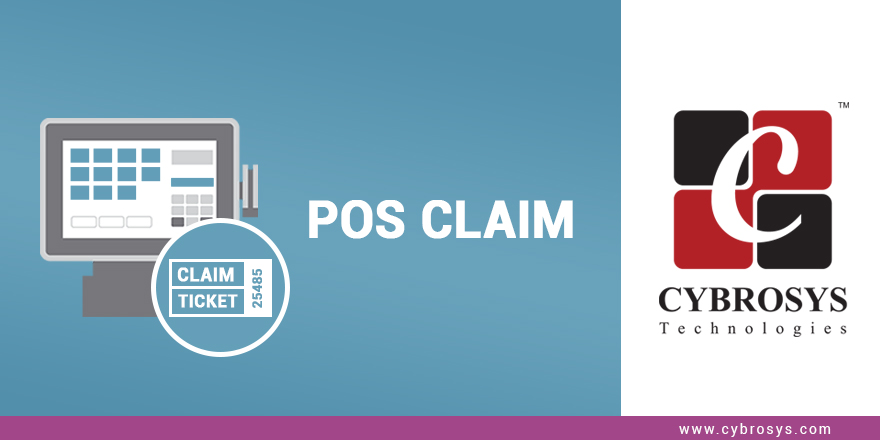
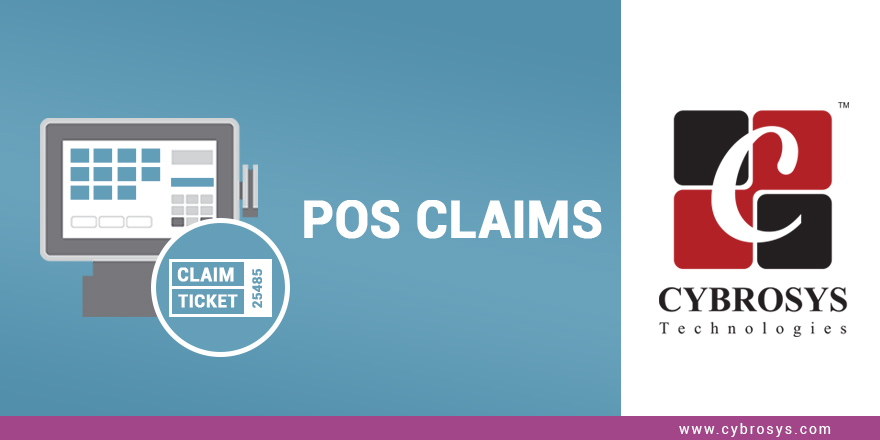
[CHNG] Index xhanged

Changed region(s): [[0.3375, 0.4432, 0.7057, 0.5614]]

diff --git a/pos_claims/static/description/index.html b/pos_claims/static/description/index.html
@@ -2,111 +2,148 @@
     <div class="oe_row oe_spaced">
         <h2 class="oe_slogan">POS Claims</h2>
         <h3 class="oe_slogan">Manage Customer Claims</h3>
-        <h4 class="oe_slogan">Cybrosys Technologies , www.cybrosys.com</h4>
+        <h4 class="oe_slogan">Author : Cybrosys Techno Solutions , www.cybrosys.com</h4>
         <div>
             <h4><p>Features:</p></h4>
             <ul>
-                <div class="col-md-6">
-                &#9728;Easily create claims from POS interface.<br>
-                &#9728; Automatic stage changes for assignment of claims.<br>
-                &#9728; Email Notification.<br>
-                &#9728; Calender view.<br>
-
-        </div>
+                <li style="list-style:none !important;"><span style="color:green;"> &#9745;</span>&nbsp;&nbsp; Easily create claims from POS interface.</li>
+                <li style="list-style:none !important;"><span style="color:green;"> &#9745;</span>&nbsp;&nbsp; Automatic stage changes for assignment of claims.</li>
+                <li style="list-style:none !important;"><span style="color:green;"> &#9745;</span>&nbsp;&nbsp; Email Notification.</li>
+                <li style="list-style:none !important;"><span style="color:green;"> &#9745;</span>&nbsp;&nbsp; Calender view.</li>
             </ul>
         </div>
-    </div>
-</section>
-
-<section class="oe_container">
-    <div class="oe_row oe_spaced">
-        <div class="oe_span12">
-            <div class="oe_demo oe_picture oe_screenshot">
-            	<img src="pos_claims.png">
-            </div>
-        </div>
-        <div class="oe_span12">
-            <p class='oe_mt32'><center>
-                This application allows you to manage your customers claims.
-            </center></p>
-        </div>
-    </div>
+     </div>
 </section>
 
 <section class="oe_container oe_dark">
+     <div class="oe_row oe_spaced">
+        <h3 class="oe_slogan">Easily create claims from POS interface</h3>
+        <div class="oe_row oe_spaced">
+            <div class="oe_span12">
+                <div class="oe_row_img oe_centered">
+                    <img style="border:10px solid white;" class="oe_picture oe_screenshot" src="pos_claims.png">
+                </div>
+            </div>
+            <div class="oe_span12">
+                <p class="oe_mt32">
+                    This application allows you to manage your customers claims.
+                </p>
+            </div>
+
+        </div>
+     </div>
+</section>
+
+<section class="oe_container">
     <div class="oe_row oe_spaced">
         <h3 class="oe_slogan">Create Claims</h3>
-        <div class="oe_span6">
-            <div class="oe_demo oe_picture oe_screenshot">
-            	<img src="interface_pos.png">
+        <div class="oe_row oe_spaced">
+            <div class="oe_span12">
+                <div class="oe_row_img oe_centered">
+                    <img style="border:10px solid white;" class="oe_picture oe_screenshot" src="interface_pos.png">
+                </div>
             </div>
-        </div>
-        <div class="oe_span6">
-        <p class='oe_mt32'>
-            Create claims easily from pos interface.Ticket is generated automatically and
-            it is send to corresponding user on creation of claims.
-        </p>
+            <div class="oe_span12">
+                <p class="oe_mt32">
+                    <p>Create claims easily from pos interface.Ticket is generated automatically and
+            it is send to corresponding user on creation of claims. </p>
+                </p>
+            </div>
         </div>
     </div>
 </section>
 
 <section class="oe_container oe_dark">
-    <div class="oe_row oe_space">
-        <h3 class="oe_slogan"> Automatic Stage Change</h3>
-        <div class="oe_span6">
-        <p class='oe_mt32'>
+    <div class="oe_row oe_spaced">
+        <h3 class="oe_slogan">Automatic Stage Change</h3>
+        <div class="oe_row oe_spaced">
+            <div class="oe_span12">
+                <div class="oe_row_img oe_centered">
+                    <img style="border:10px solid white;" class="oe_picture oe_screenshot" src="claim_state_change.png">
+                </div>
+            </div>
+        </div>
+        <div class="oe_row oe_spaced">
+            <p>
                 On assigning claim to responsible user,state of claim is changed.
-        </p>
-        </div>
-        <div class="oe_span6">
-            <div class="oe_demo oe_picture oe_screenshot">
-                <img src="claim_state_change.png">
-            </div>
+            </p>
         </div>
     </div>
 </section>
 
-<section class="oe_container oe_dark">
+<section class="oe_container ">
     <div class="oe_row oe_spaced">
         <h3 class="oe_slogan">Email Notification</h3>
-        <div class="oe_span6">
-            <div class="oe_demo oe_picture oe_screenshot">
-            	<img src="email.png">
+        <div class="oe_row oe_spaced">
+            <div class="oe_span12">
+                <div class="oe_row_img oe_centered">
+                    <img style="border:10px solid white;" class="oe_picture oe_screenshot" src="email.png">
+                </div>
+            </div>
+            <div class="oe_span12">
+                <p class="oe_mt32">
+                    An email is sent to corresponding customer
+                </p>
             </div>
         </div>
-        <div class="oe_span6">
-        <p class='oe_mt32'>
-         An email is sent to corresponding customer
-        </p>
+    </div>
+</section>
+
+<section class="oe_container ">
+    <div class="oe_row oe_spaced">
+        <h3 class="oe_slogan">Calender view</h3>
+        <div class="oe_row oe_spaced">
+            <div class="oe_span12">
+                <div class="oe_row_img oe_centered">
+                    <img style="border:10px solid white;" class="oe_picture oe_screenshot" src="calender.png">
+                </div>
+            </div>
+            <div class="oe_span12">
+                <p class="oe_mt32">
+                    You can see all your next action on calender view
+                </p>
+            </div>
+        </div>
+    </div>
+</section>
+
+<section class="oe_container ">
+    <div class="oe_row oe_spaced">
+        <h3 class="oe_slogan">View your claims</h3>
+        <div class="oe_row oe_spaced">
+            <div class="oe_span12">
+                <div class="oe_row_img oe_centered">
+                    <img style="border:10px solid white;" class="oe_picture oe_screenshot" src="claim.png">
+                </div>
+            </div>
         </div>
     </div>
 </section>
 
 <section class="oe_container oe_dark">
-    <div class="oe_row oe_space">
-        <h3 class="oe_slogan"> Calender view</h3>
-        <div class="oe_span6">
-        <p class='oe_mt32'>
-        You can see all your next action on calender view
-        </p>
-        </div>
-        <div class="oe_span6">
-            <div class="oe_demo oe_picture oe_screenshot">
-                <img src="calender.png">
+        <h2 class="oe_slogan" style="margin-top:20px;" >Need Any Help?</h2>
+        <div class="oe_slogan" style="margin-top:10px !important;">
+            <div>
+                <a  class="btn btn-primary btn-lg mt8"
+                style="color: #FFFFFF !important;border-radius: 0;" href="https://www.cybrosys.com"><i
+                class="fa fa-envelope"></i> Email </a> <a
+                class="btn btn-primary btn-lg mt8" style="color: #FFFFFF !important;border-radius: 0;"
+                href="https://www.cybrosys.com/contact/"><i
+                class="fa fa-phone"></i> Contact Us </a> <a
+                class="btn btn-primary btn-lg mt8" style="color: #FFFFFF !important;border-radius: 0;"
+                href="https://www.cybrosys.com/odoo-customization-and-installation/"><i
+                class="fa fa-check-square"></i> Request Customization </a>
+            </div>
+            <br>
+            <img src="cybro_logo.png" style="width: 190px; margin-bottom: 20px;" class="center-block">
+            <div>
+              <a href="https://twitter.com/cybrosys" target="_blank"><i class="fa fa-2x fa-twitter" style="color:white;background: #00a0d1;width:35px;"></i></a></td>
+              <a href="https://www.linkedin.com/company/cybrosys-technologies-pvt-ltd" target="_blank"><i class="fa fa-2x fa-linkedin" style="color:white;background: #31a3d6;width:35px;padding-left: 3px;"></i></a></td>
+              <a href="https://www.facebook.com/cybrosystechnologies" target="_blank"><i class="fa fa-2x fa-facebook" style="color:white;background: #3b5998;width:35px;padding-left: 8px;"></i></a></td>
+              <a href="https://plus.google.com/106641282743045431892/about" target="_blank"><i class="fa fa-2x fa-google-plus" style="color:white;background: #c53c2c;width:35px;padding-left: 3px;"></i></a></td>
+              <a href="https://in.pinterest.com/cybrosys" target="_blank"><i class="fa fa-2x fa-pinterest" style="color:white;background: #ac0f18;width:35px;padding-left: 3px;"></i></a></td>
             </div>
         </div>
-    </div>
-</section>
-
-<section class="oe_container">
-    <div class="oe_row oe_spaced">
-        <h3 class="oe_slogan">View your claims</h3>
-        <div class="oe_span12">
-            <div class="oe_demo oe_picture oe_screenshot">
-            	<img src="claim.png">
-            </div>
-        </div>
-    </div>
 </section>
 
 

diff --git a/pos_claims/__openerp__.py b/pos_claims/__openerp__.py
@@ -23,11 +23,11 @@
 {
     'name': "POS Claims",
     'version': '9.0.1.0.0',
-    'summary': """Manage your customer claims""",
-    'description': """ This application allows you to manage your customers claims.""",
+    'summary': """Manage Customer Claims & Issues""",
+    'description': """ This application allows to manage customers claims & issues in delivery.""",
     'category': 'Point of sale',
     'author': "Cybrosys Techno Solutions",
-    'website': "http://www.cybrosys.com",
+    'website': "https://www.cybrosys.com",
     'company': 'Cybrosys Techno Solutions',
     'depends': ['base', 'point_of_sale'],
     'data': ['views/pos_claims_views.xml', 'views/pos_claims_popup.xml', 'views/pos_claim_sequence.xml'],
